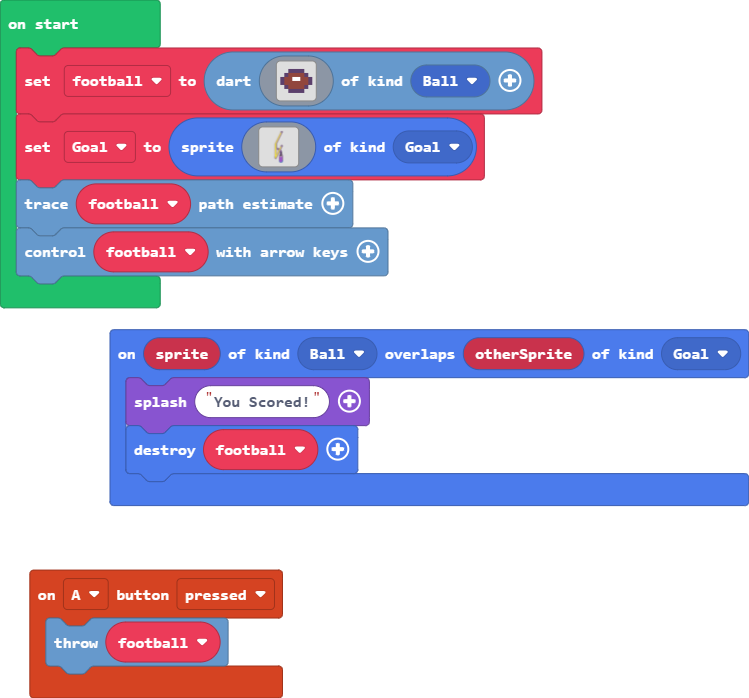
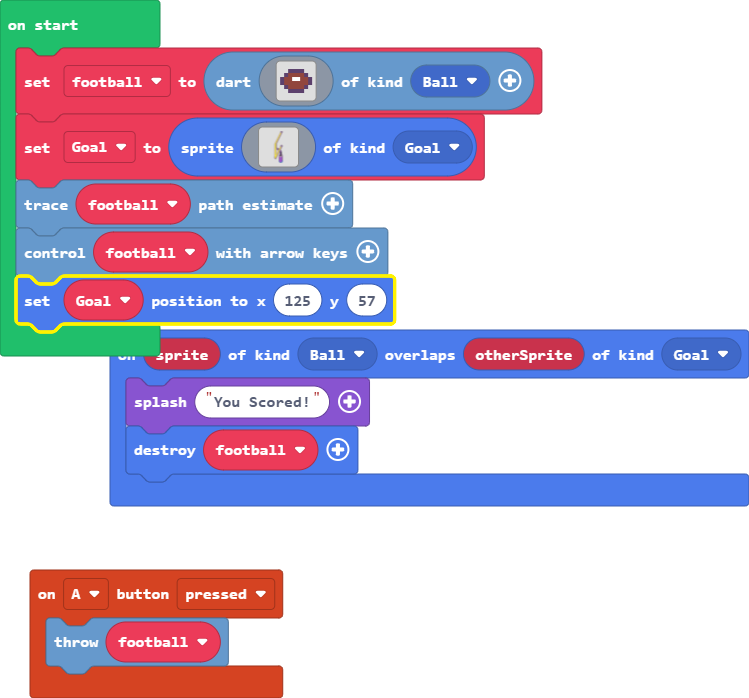
Update main.blocks, main.ts

diff --git a/main.ts b/main.ts
@@ -79,3 +79,4 @@ let Goal = sprites.create(img`
     `, SpriteKind.Goal)
 football.setTrace()
 football.controlWithArrowKeys()
+Goal.setPosition(125, 57)
